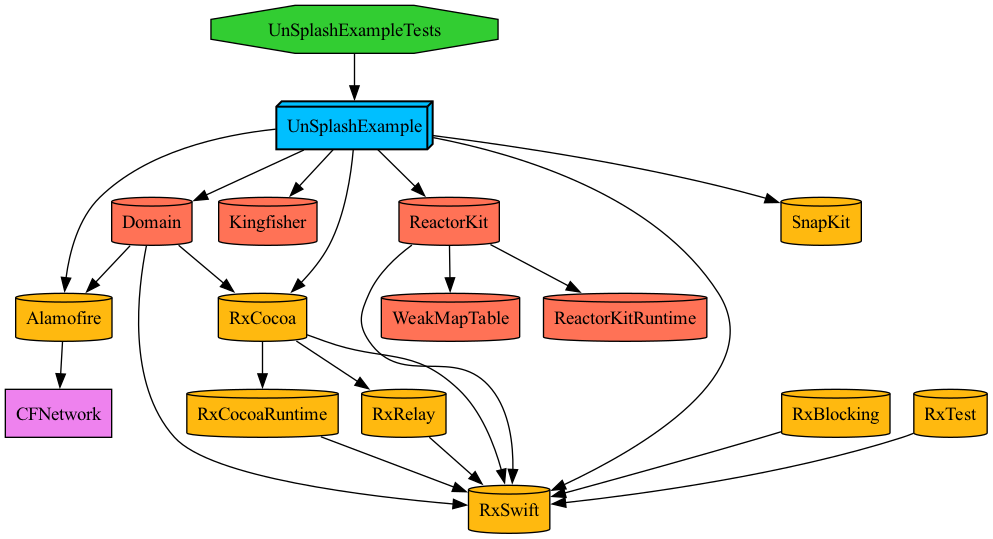
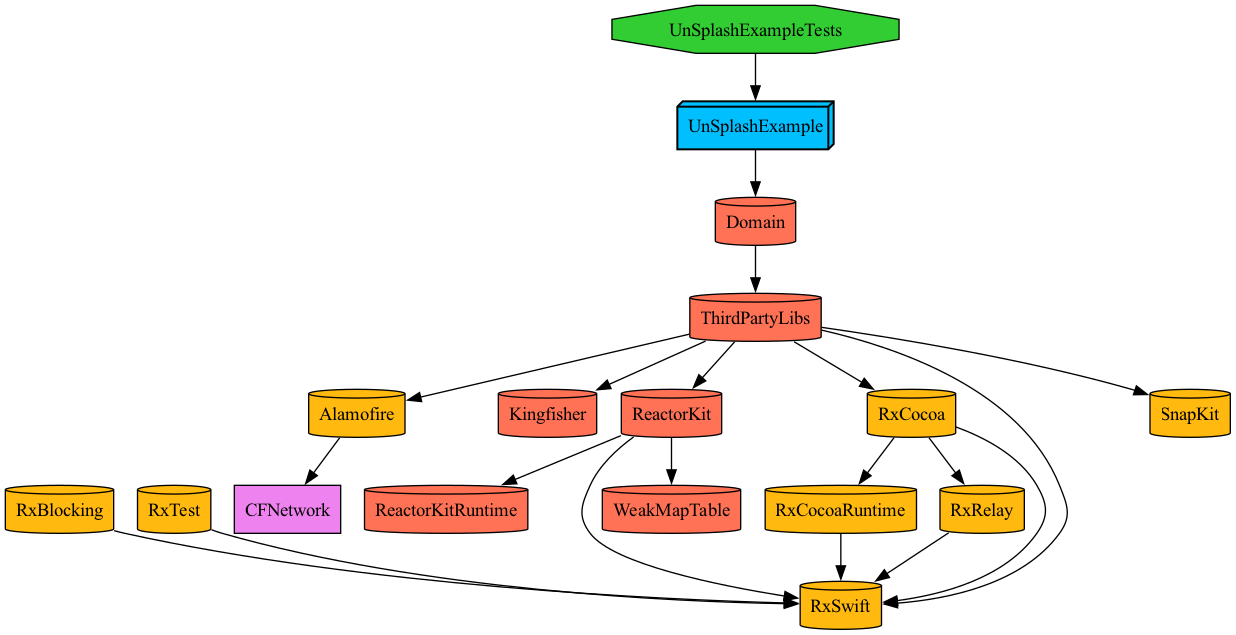
모음 사전

diff --git a/Projects/ThirdPartyLibs/Project.swift b/Projects/ThirdPartyLibs/Project.swift
@@ -1,8 +1,15 @@
+//
+//  Project.swift
+//  ProjectDescriptionHelpers
+//
+//  Created by 이동기 on 8/16/25.
+//
+
 import ProjectDescription
 import ProjectDescriptionHelpers
 
 let project = Project(
-    name: "Domain",
+    name: "ThirdPartyLibs",
     settings: .settings(
         base: [
             "SWIFT_VERSION": "5.9",
@@ -18,16 +25,19 @@ let project = Project(
     ),
     targets: [
         .target(
-            name: "Domain",
+            name: "ThirdPartyLibs",
             destinations: .iOS,
             product: .staticFramework,
-            bundleId: "$(PRODUCT_BUNDLE_IDENTIFIER)Domain",
+            bundleId: "$(PRODUCT_BUNDLE_IDENTIFIER)ThirdPartyLibs",
             deploymentTargets: .iOS("16.0"),
             infoPlist: .default,
-            sources: ["Sources/**"],
-            resources: nil,
             dependencies: [
-                .project(target: "ThirdPartyLibs", path: "../ThirdPartyLibs")
+                .external(name: "RxSwift"),
+                .external(name: "RxCocoa"),
+                .external(name: "Alamofire"),
+                .external(name: "SnapKit"),
+                .external(name: "Kingfisher"),
+                .external(name: "ReactorKit")
             ],
         )
     ]

diff --git a/Tuist/ProjectDescriptionHelpers/Project+Templates.swift b/Tuist/ProjectDescriptionHelpers/Project+Templates.swift
@@ -43,13 +43,7 @@ extension Project {
             sources: ["Sources/**"],
             resources: ["Resources/**"],
             dependencies: [
-                .project(target: "Domain", path: "../Domain"),
-                .external(name: "RxSwift"),
-                .external(name: "RxCocoa"),
-                .external(name: "Alamofire"),
-                .external(name: "SnapKit"),
-                .external(name: "Kingfisher"),
-                .external(name: "ReactorKit")
+                .project(target: "Domain", path: "../Domain")
             ],
             coreDataModels: [.coreDataModel("Sources/Data/CoreDataStorage/CoreDataStorage.xcdatamodeld")]
         )
